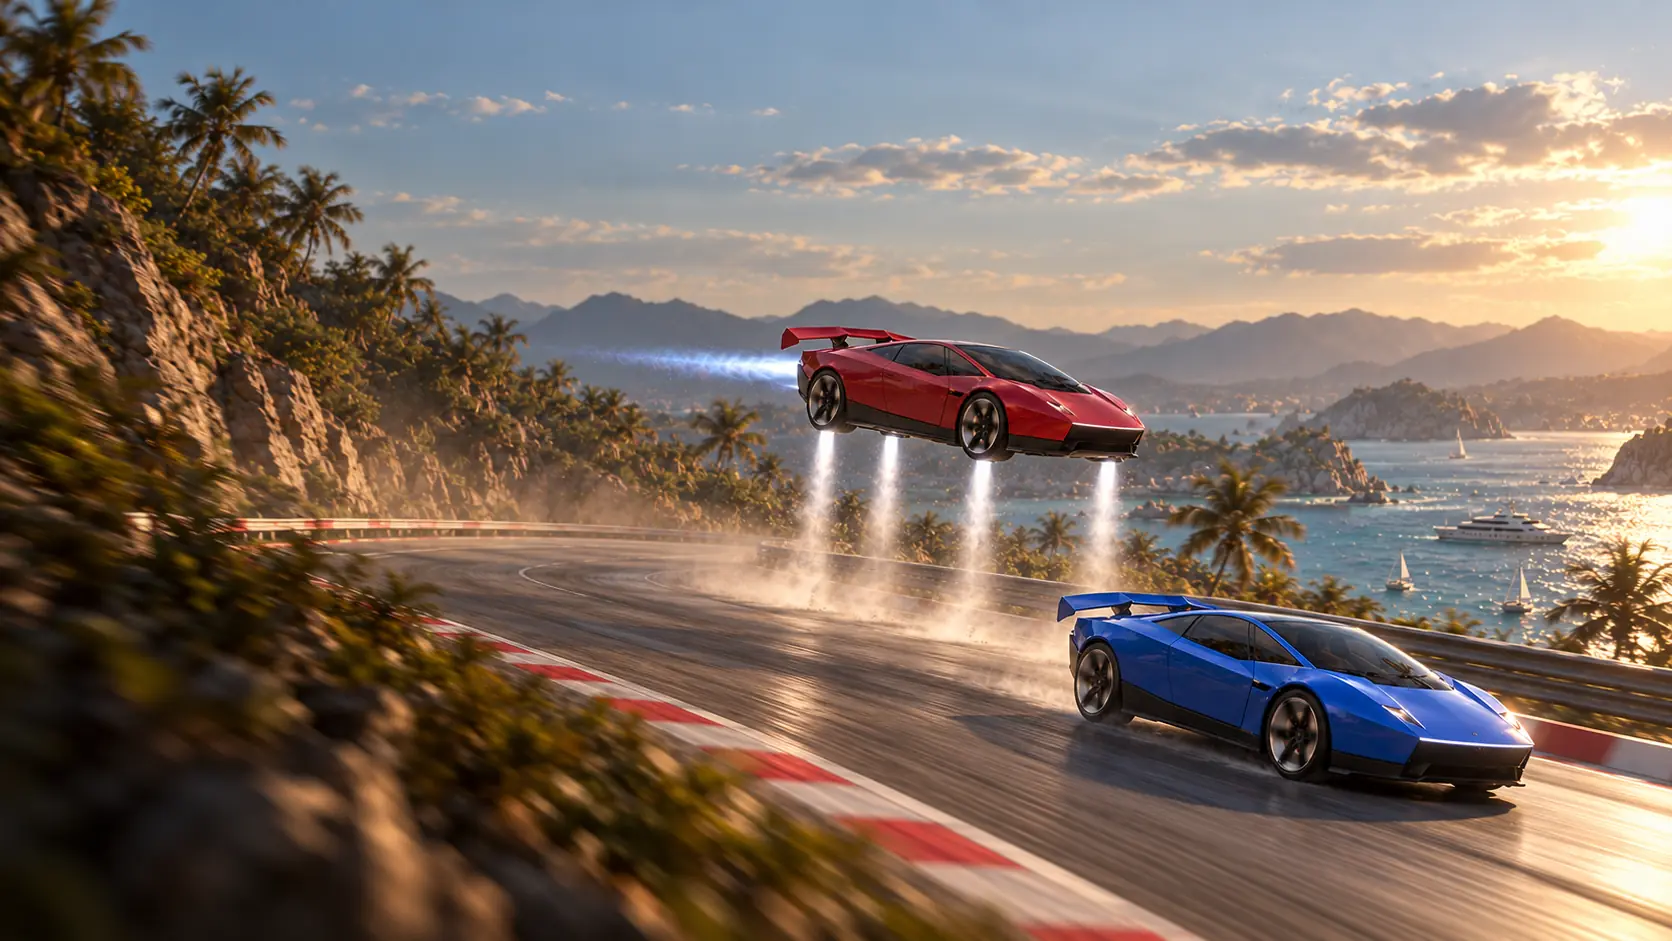
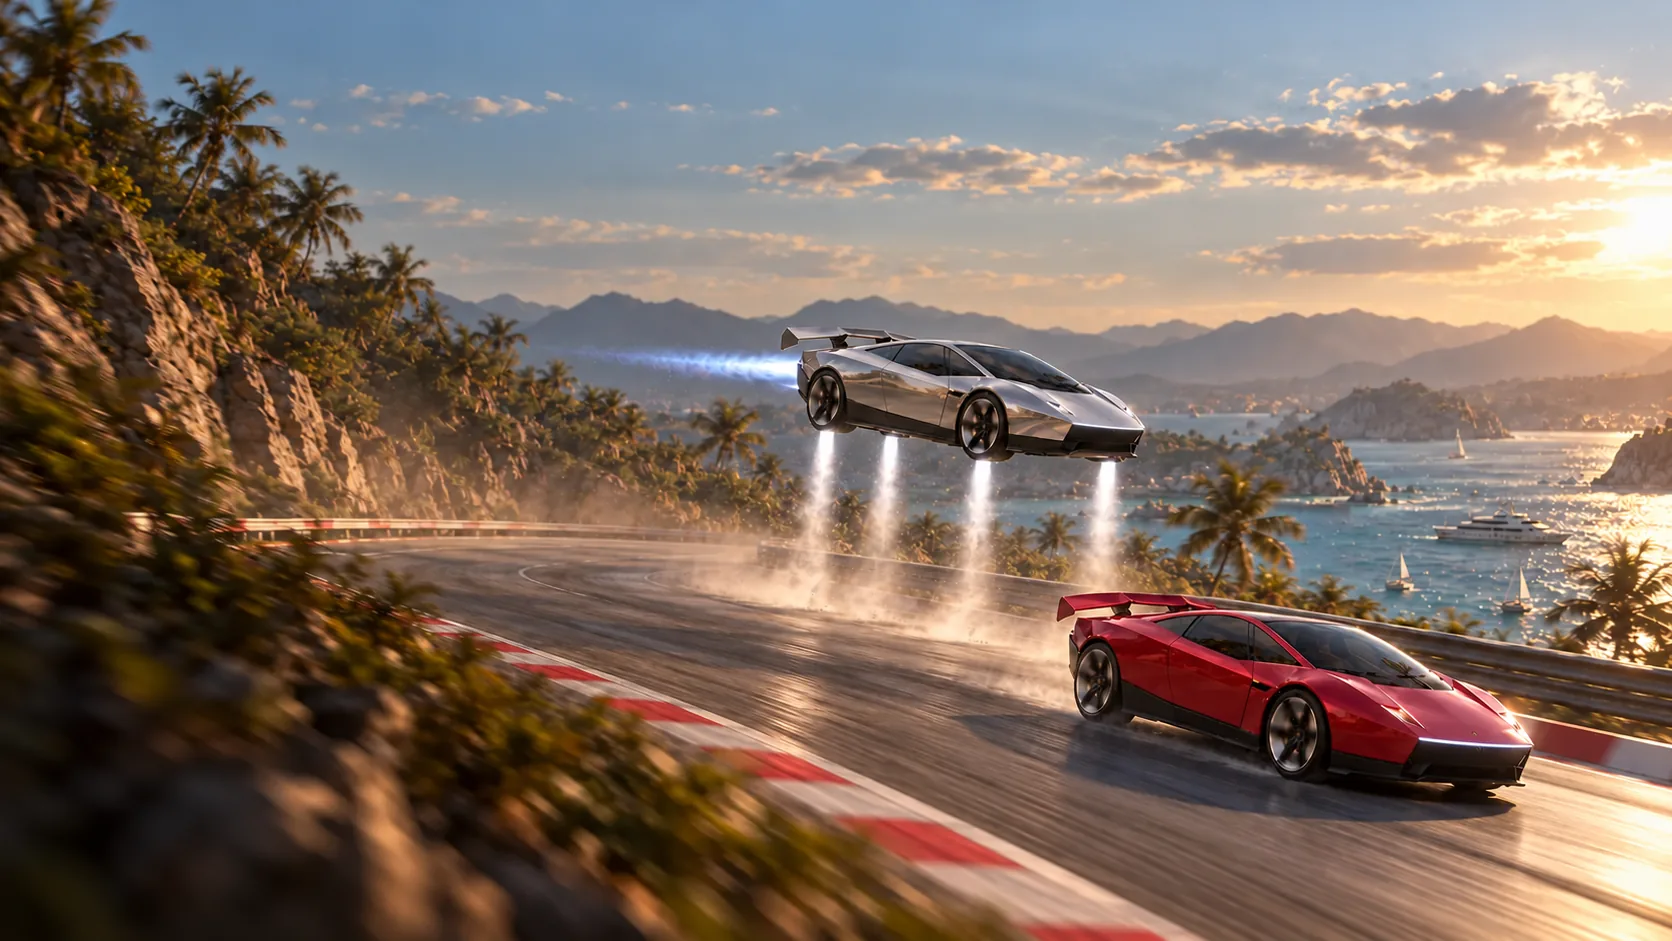
Refresh Home artwork and stabilize six-lap CI test

diff --git a/tests/browser/home-art.spec.ts b/tests/browser/home-art.spec.ts
@@ -1,0 +1,41 @@
+import { expect, test } from '@playwright/test';
+import { mkdirSync, writeFileSync } from 'node:fs';
+
+const captures='artifacts/home-art-refresh';mkdirSync(captures,{recursive:true});
+for(const [name,viewport] of [
+ ['desktop',{width:1440,height:900}],['phone-landscape',{width:844,height:390}],
+ ['phone-portrait',{width:390,height:844}],['tablet',{width:810,height:1080}],
+] as const){
+ test(`all supplied Home pictures load and rotate without moving the menus: ${name}`,async({browser})=>{
+  test.setTimeout(180000);
+  const context=await browser.newContext({viewport,hasTouch:name!=='desktop',deviceScaleFactor:name==='phone-portrait'?2:1}),page=await context.newPage(),errors:string[]=[];
+  page.on('pageerror',e=>errors.push(e.message));
+  // Choose index zero initially, then the next different picture on every Home arrival.
+  // This exercises the real Home navigation/rotation with repeatable random choices.
+  await page.addInitScript(()=>{Math.random=()=>0;});await page.goto('/');
+  const {heroImages,heroArtRevision}=await page.evaluate(async()=>{
+   const path='/src/presentation/themes.ts',{heroImages,heroArtRevision}=await import(path);return{heroImages,heroArtRevision};
+  });
+  const report:{id:string;source:string;width:number;height:number}[]=[];
+  for(const art of heroImages){
+   const expected=`${art.id}-${viewport.height>viewport.width?'tall':'wide'}.webp?v=${heroArtRevision}`;
+   await page.waitForFunction(expected=>{const img=document.querySelector<HTMLImageElement>('.home-hero img');return img?.complete&&img.naturalWidth>0&&img.currentSrc.endsWith(expected);},expected);
+   await expect(page.locator('.home-hero')).toHaveClass(/loaded/);
+   await expect(page.locator('.home-hero img')).toHaveCSS('opacity','1');
+   const image=await page.locator('.home-hero img').evaluate(img=>({source:(img as HTMLImageElement).currentSrc,width:(img as HTMLImageElement).naturalWidth,height:(img as HTMLImageElement).naturalHeight}));
+   expect(image.width/image.height).toBeCloseTo(viewport.height>viewport.width?941/1672:1672/941,2);
+   for(const action of['Solo Race','Multiplayer','Time Trial','Tutorial'])await expect(page.getByRole('button',{name:action,exact:true})).toBeVisible();
+   await page.screenshot({path:`${captures}/${name}-${art.id}.png`});report.push({id:art.id,...image});
+   await page.getByRole('button',{name:'Settings',exact:true}).click();await page.getByRole('button',{name:'Close settings',exact:true}).click();
+   expect(await page.locator('.home-hero img').evaluate(img=>(img as HTMLImageElement).currentSrc)).toBe(image.source);
+   if(art!==heroImages.at(-1)){
+    await page.getByRole('button',{name:'Time Trial',exact:true}).click();await page.getByRole('button',{name:'Home',exact:true}).click();
+   }
+  }
+  // Rotation switches the responsive source while retaining the selected picture.
+  await page.setViewportSize({width:viewport.height,height:viewport.width});
+  const other=`${heroImages.at(-1)!.id}-${viewport.width>viewport.height?'tall':'wide'}.webp?v=${heroArtRevision}`;
+  await page.waitForFunction(expected=>{const img=document.querySelector<HTMLImageElement>('.home-hero img');return img?.complete&&img.naturalWidth>0&&img.currentSrc.endsWith(expected);},other);
+  expect(errors).toEqual([]);writeFileSync(`${captures}/${name}.json`,JSON.stringify({viewport,report,rotation:true,errors},null,2));await context.close();
+ });
+}

diff --git a/src/main.ts b/src/main.ts
@@ -39,7 +39,7 @@ import { TUTORIAL_COPY, tutorialCoach, tutorialCompletePanel, tutorialIntroPanel
 import { TUTORIAL_CIRCUIT, TUTORIAL_LAPS, answerPrompt, duePrompt, freshTutorial, type TutorialProgress } from './app/tutorial';
 import { GameAudio } from './presentation/audio';
 import { GameScene } from './presentation/scene';
-import { applyPlayerColors, applyTheme, themes, hopEffects, heroImages } from './presentation/themes';
+import { applyPlayerColors, applyTheme, themes, hopEffects, heroImages, heroArtRevision } from './presentation/themes';
 import { cleanDriverName, escapeHtml, finishFor, loadPreferences, savePreferences } from './presentation/race-settings';
 import { raceSetupMarkup } from './presentation/race-setup';
 import { isGraphicsChoice, isRendererChoice, loadGraphicsPreference, saveGraphicsPreference, type RendererChoice } from './presentation/graphics';
@@ -143,7 +143,7 @@ function showHero() {
   heroIndex = nextHero(heroImages.length, heroIndex);
   const hero = heroImages[heroIndex];
   heroPicture.classList.remove('loaded'); heroPicture.style.setProperty('--hero-wide', hero.wide); heroPicture.style.setProperty('--hero-tall', hero.tall);
-  heroSource.srcset = assetUrl(`assets/hero/${hero.id}-tall.webp`); heroImage.src = assetUrl(`assets/hero/${hero.id}-wide.webp`);
+  heroSource.srcset = assetUrl(`assets/hero/${hero.id}-tall.webp?v=${heroArtRevision}`); heroImage.src = assetUrl(`assets/hero/${hero.id}-wide.webp?v=${heroArtRevision}`);
 }
 heroImage.addEventListener('load', () => heroPicture.classList.add('loaded'));
 heroImage.addEventListener('error', () => heroPicture.classList.remove('loaded'));

diff --git a/tests/unit/start-finish.test.ts b/tests/unit/start-finish.test.ts
@@ -80,6 +80,8 @@ for (const { track } of circuits) describe(`${track.id} full-width drawing`, () 
     const trim = trimDrawing(samples, track); expect(trim.ok).toBe(true);
     if (trim.ok) { expect(distance(trim.samples[0], track.start)).toBeLessThan(0.01); expect(trim.samples[1].time).toBeCloseTo(first.time); }
   });
+  // Six fixed-step laps on elevated terrain can exceed the 30 s default on
+  // shared CI runners. Keep the complete simulation and all seam/finish checks.
   test('opposite-side endpoints join forward at the shared anchor and race six laps', () => {
     const result = success(planned(track, -track.roadWidth / 2 + 0.2, track.roadWidth / 2 - 0.2), track), points = result.route.points;
     expect(result.drawing!.joined).toBe(true); expect(distance(points[0], points.at(-1)!)).toBeLessThan(1e-6);
@@ -94,7 +96,7 @@ for (const { track } of circuits) describe(`${track.id} full-width drawing`, () 
     const sim = new RaceSimulation(result.route, track, 6);
     for (let i = 0; i < 24000 && !sim.state.finished; i++) sim.step();
     expect(sim.state.finished).toBe(true); expect(sim.state.lapTimes).toHaveLength(6);
-  });
+  }, 120000);
   test('first finish crossing discards arbitrary later movement, pauses, reversals and extra laps', () => {
     const lap = planned(track), end = lap.at(-1)!;
     const short = success([...lap, { ...gatePoint(track, 0, 3.9), time: end.time + 100 }], track);

diff --git a/src/presentation/themes.ts b/src/presentation/themes.ts
@@ -182,12 +182,13 @@ export const newportHarbour = {
  * One picture is chosen at random each time the player arrives on Home. `wide`/`tall` are CSS
  * object-position focus points that keep the cars in frame when a screen crops the picture.
  */
+export const heroArtRevision = '2026-10-29-steel';
 export const heroImages = [
-  { id: 'thruster-hop', wide: '78% 50%', tall: '50% 28%' },
-  { id: 'drivers-grid', wide: '66% 60%', tall: '62% 58%' },
-  { id: 'door-to-door', wide: '70% 50%', tall: '45% 50%' },
-  { id: 'water-jump', wide: '45% 66%', tall: '68% 44%' },
-  { id: 'canyon-jump', wide: '58% 30%', tall: '40% 50%' },
+  { id: 'thruster-hop', wide: '78% 50%', tall: '50% 72%' },
+  { id: 'drivers-grid', wide: '100% 60%', tall: '50% 80%' },
+  { id: 'door-to-door', wide: '100% 50%', tall: '50% 60%' },
+  { id: 'water-jump', wide: '50% 52%', tall: '50% 50%' },
+  { id: 'canyon-jump', wide: '58% 45%', tall: '50% 50%' },
 ] as const;
 
 /**

diff --git a/docs/HOME_ART_REFRESH.md b/docs/HOME_ART_REFRESH.md
@@ -1,0 +1,55 @@
+# Home artwork and CI correction — 2026-10-29
+
+The owner's ten supplied images now fill the existing five wide/portrait Home
+roles: cold-gas Hop, drivers/grid, door-to-door racing, pier jump and canyon jump.
+The eight PNGs are encoded as WebP at quality 82 with their full composition and
+original dimensions intact. The supplied door-to-door WebPs already match the
+shipped pair, so they remain byte-identical. The complete set is about 1.96 MB;
+the page requests the selected picture's appropriate orientation, not the entire
+set. Source filenames and hashes are recorded in ASSET_RIGHTS.md.
+
+`heroImages` keeps the same stable IDs, with adjusted focal points for the new
+compositions. `heroArtRevision` adds `?v=2026-10-29-steel` to both source URLs so a
+returning browser does not reuse the retired artwork. Local development and
+GitHub Pages still resolve assets beneath the configured base. Increment this
+presentation revision whenever those files are replaced in the future.
+
+The existing rotation is preserved: a different image on every arrival at Home,
+stable while Settings/Touch test is open. Portrait and landscape use their own
+supplied pictures, with `object-fit: cover`; they are never stretched. Standard
+red interface controls and selected car paints are unchanged.
+
+## Failed GitHub check
+
+[Pages run 40977097311](https://github.com/Albert-Gil/RoadsterRace/actions/runs/40977097311)
+failed in `verify (la-nights)` and `verify (tournament)`. Both failures were the
+same unit case: Yosemite's opposite-edge start/finish connection completing six
+laps exceeded the global 30-second test limit on shared runners. The other ten
+verification jobs passed; no gameplay assertion failed in the two timed-out jobs.
+Deployment was correctly withheld.
+
+That generated six-lap test now has an explicit **120-second** budget, consistent
+with other complete-race tests. All circuits, 24,000 maximum fixed steps,
+connection/clearance assertions and six-lap finish assertions remain intact.
+The global timeout, workflow deployment gate and game rules are unchanged.
+
+## Verification
+
+- Four responsive browser checks cover all five pictures on desktop, phone
+  landscape, phone portrait at 2× density and tablet: twenty actual Home captures.
+- Checks assert successful decoding, visible fade completion, all mode buttons,
+  unchanged artwork while Settings opens/closes, non-repeating Home rotation and
+  the correct responsive source after orientation changes.
+- The previously timed-out Yosemite six-lap case passes independently.
+- All 24 exact handling fixtures match HEAD; there are no simulation or course
+  changes in this update.
+- Type checking, all **672 unit tests across 51 files**, the production build and
+  a complete production touch race pass. The built site also loads all ten art
+  files from `/RoadsterRace/`, checking the matching sources on desktop and both
+  phone orientations with no development inspector. Detailed logs live in
+  `artifacts/home-art-refresh/`.
+- Physical iPhone/iPad Safari verification remains pending hardware testing.
+
+The local review gallery is `artifacts/home-art-refresh/index.html`. Source
+masters and generated captures stay outside version control. The normal Pages
+workflow verifies the new main commit before publishing it.

diff --git a/docs/ASSET_RIGHTS.md b/docs/ASSET_RIGHTS.md
@@ -188,3 +188,35 @@ The National Park Service geology page is a factual art-direction reference,
 not an image/model asset: https://www.nps.gov/yose/learn/nature/geology.htm/index.htm.
 No park photograph, map, logo or third-party scenery model was incorporated.
 Existing environment, audio and RoadsterLAB attributions remain unchanged.
+
+## Home artwork refresh — owner-supplied steel-car images, 2026-10-29
+
+The owner supplied ten replacement files in this chat: five wide/portrait pairs
+for the existing Home roles. They are used with the owner's authorization; no
+external stock source, new model, font or recording was introduced. The imagery
+is presentation artwork, not a claim of captured gameplay or an exact venue map.
+The prior 2026-10-27 source table above describes the retired art revision.
+
+The eight PNGs were encoded to WebP at quality 82 without cropping, changing
+composition or stretching. The two supplied door-to-door WebPs were copied
+unchanged (they already match the existing shipped pair). All files retain
+1672×941 wide / 941×1672 tall dimensions. Unchanged source masters remain outside
+the repository. These source hashes identify the owner's attachments:
+
+| Shipped role | Supplied file | Source SHA-256 |
+|---|---|---|
[10 lines of base64/hex data omitted]
+
+`heroArtRevision` in themes.ts adds a cache revision to image URLs; stable role
+filenames remain base-aware. Focus points are centrally adjustable. Rotation
+continues to choose a different picture on every arrival at Home and leaves it
+unchanged while Settings or Touch test is open.

diff --git a/docs/VISUAL_GUIDE.md b/docs/VISUAL_GUIDE.md
@@ -151,3 +151,12 @@ Verification for this UI correction: type checking, 668 unit tests, seven releva
 ### Yosemite v2: granite valley composition
 
 Fifty authored rock formations now share one granite mesh, including 44 new walls, domes, spires and talus groups. Eight branched conifer templates share one forest mesh; meadow plants and ranger/campground furniture stay batched. Palette, forest density and water settings remain in yosemiteAppearance. Keep the new rock footprints/heights authoritative and do not add loose rocks within the planning corridor. See YOSEMITE_VALLEY_UPGRADE.md and YOSEMITE_VALLEY_TEST_REPORT.md.
+
+### Owner-supplied steel-car Home art
+
+The ten files supplied on 2026-10-29 now occupy the existing five wide/portrait
+roles. Their source records are in ASSET_RIGHTS.md. `heroImages` owns crop focus;
+`heroArtRevision` invalidates old cached image URLs without changing role names.
+Keep the full artwork composition and aspect ratio, the existing red UI, and the
+non-repeating Home rotation. See HOME_ART_REFRESH.md for the responsive captures
+and the independently scoped six-lap CI timeout correction.
